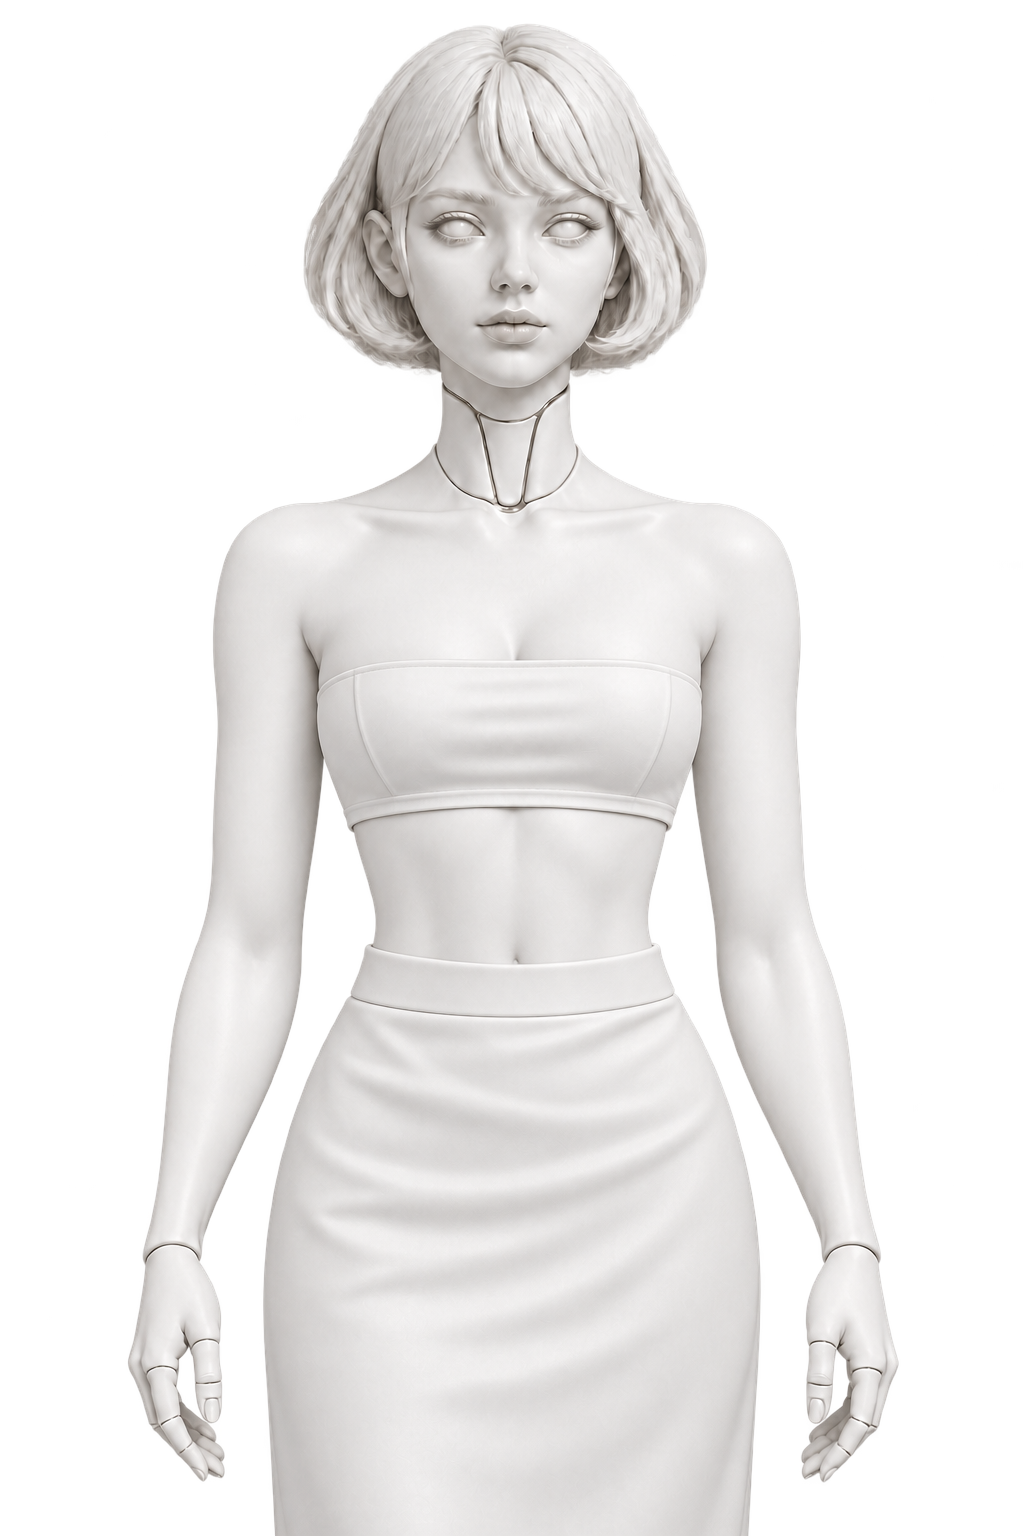
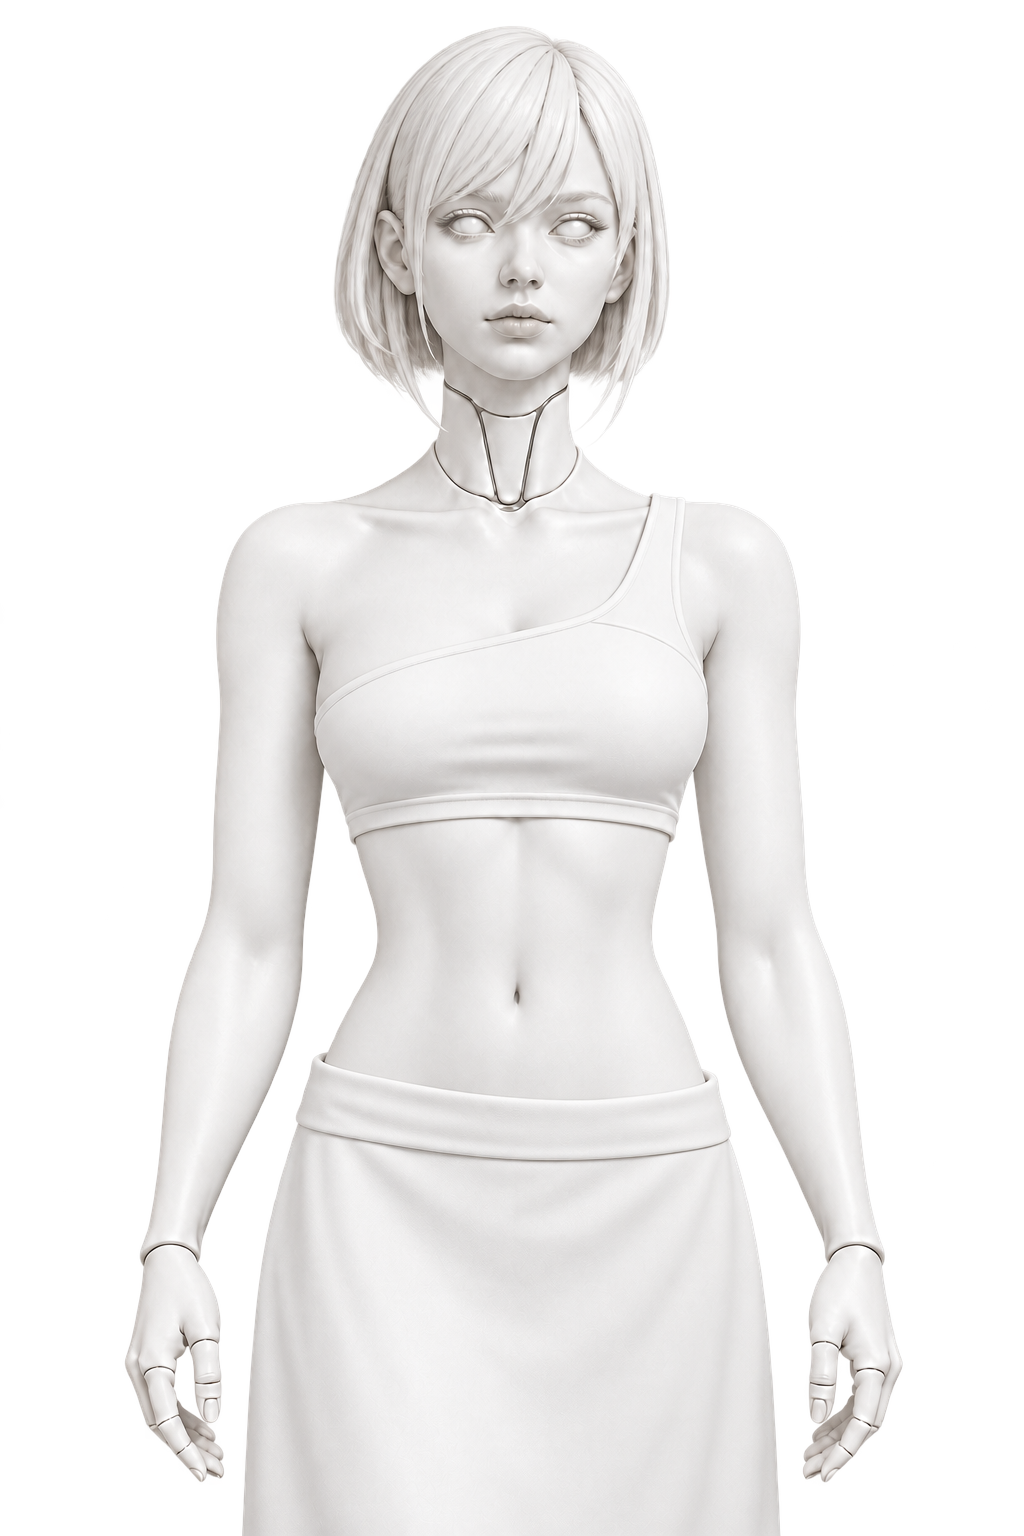
Refine agent outfit and align animated eyes

diff --git a/editorial.css b/editorial.css
@@ -151,13 +151,12 @@ a:focus-visible, button:focus-visible, [tabindex]:focus-visible { outline-color:
   transform: translate(calc(-50% + var(--eye-x)), calc(-50% + var(--eye-y)));
   transition: transform .12s ease-out; pointer-events: none;
 }
-.agent-pose-idle .agent-pupil-left { left: 45.1%; }
-.agent-pose-idle .agent-pupil-right { left: 55.6%; }
-.agent-pose-listening .agent-pupil-left { left: 49.5%; }
-.agent-pose-listening .agent-pupil-right { left: 59.8%; }
-.agent-pose-reaching .agent-pupil { top: 16%; }
-.agent-pose-reaching .agent-pupil-left { left: 48.4%; }
-.agent-pose-reaching .agent-pupil-right { left: 59.4%; }
+.agent-pose-idle .agent-pupil-left { left: 47.2%; top: 14.9%; }
+.agent-pose-idle .agent-pupil-right { left: 56.5%; top: 14.9%; }
+.agent-pose-listening .agent-pupil-left { left: 47%; top: 15%; }
+.agent-pose-listening .agent-pupil-right { left: 57.4%; top: 14.8%; }
+.agent-pose-reaching .agent-pupil-left { left: 48.1%; top: 25.3%; }
+.agent-pose-reaching .agent-pupil-right { left: 57.5%; top: 23.5%; }
 .agent-trails { position: absolute; z-index: 3; inset: 0; width: 100%; height: 100%; pointer-events: none; opacity: 0; }
 .agent-trails path { fill: none; stroke: #aebdf3; stroke-width: 1.3; stroke-linecap: round; stroke-dasharray: 270; stroke-dashoffset: 270; }
 .agent-trails path:nth-child(2) { stroke: #d4b0b9; }
